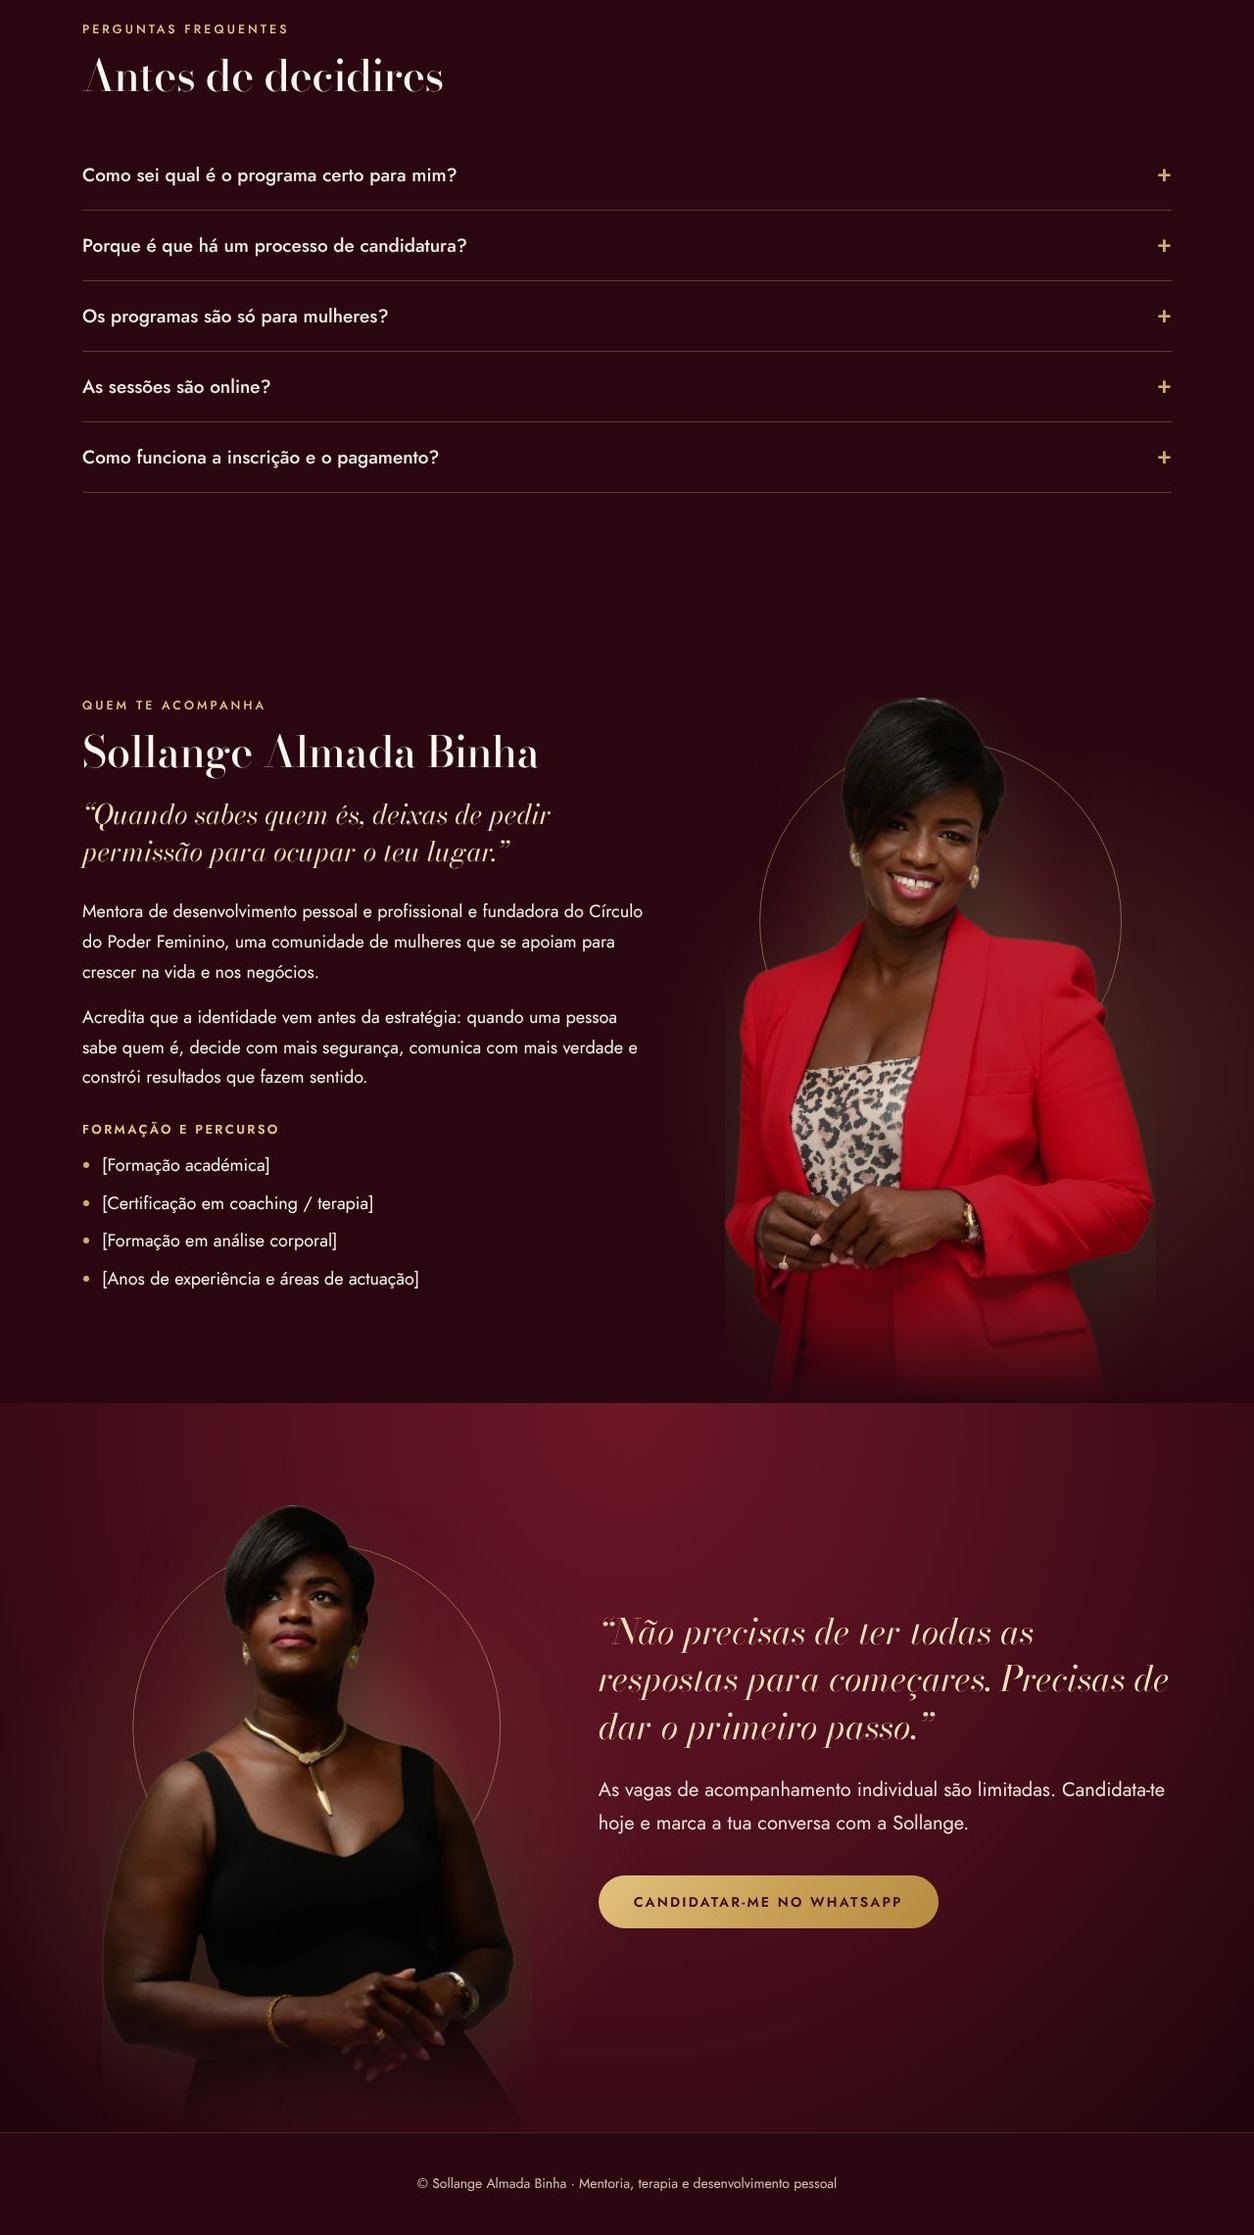
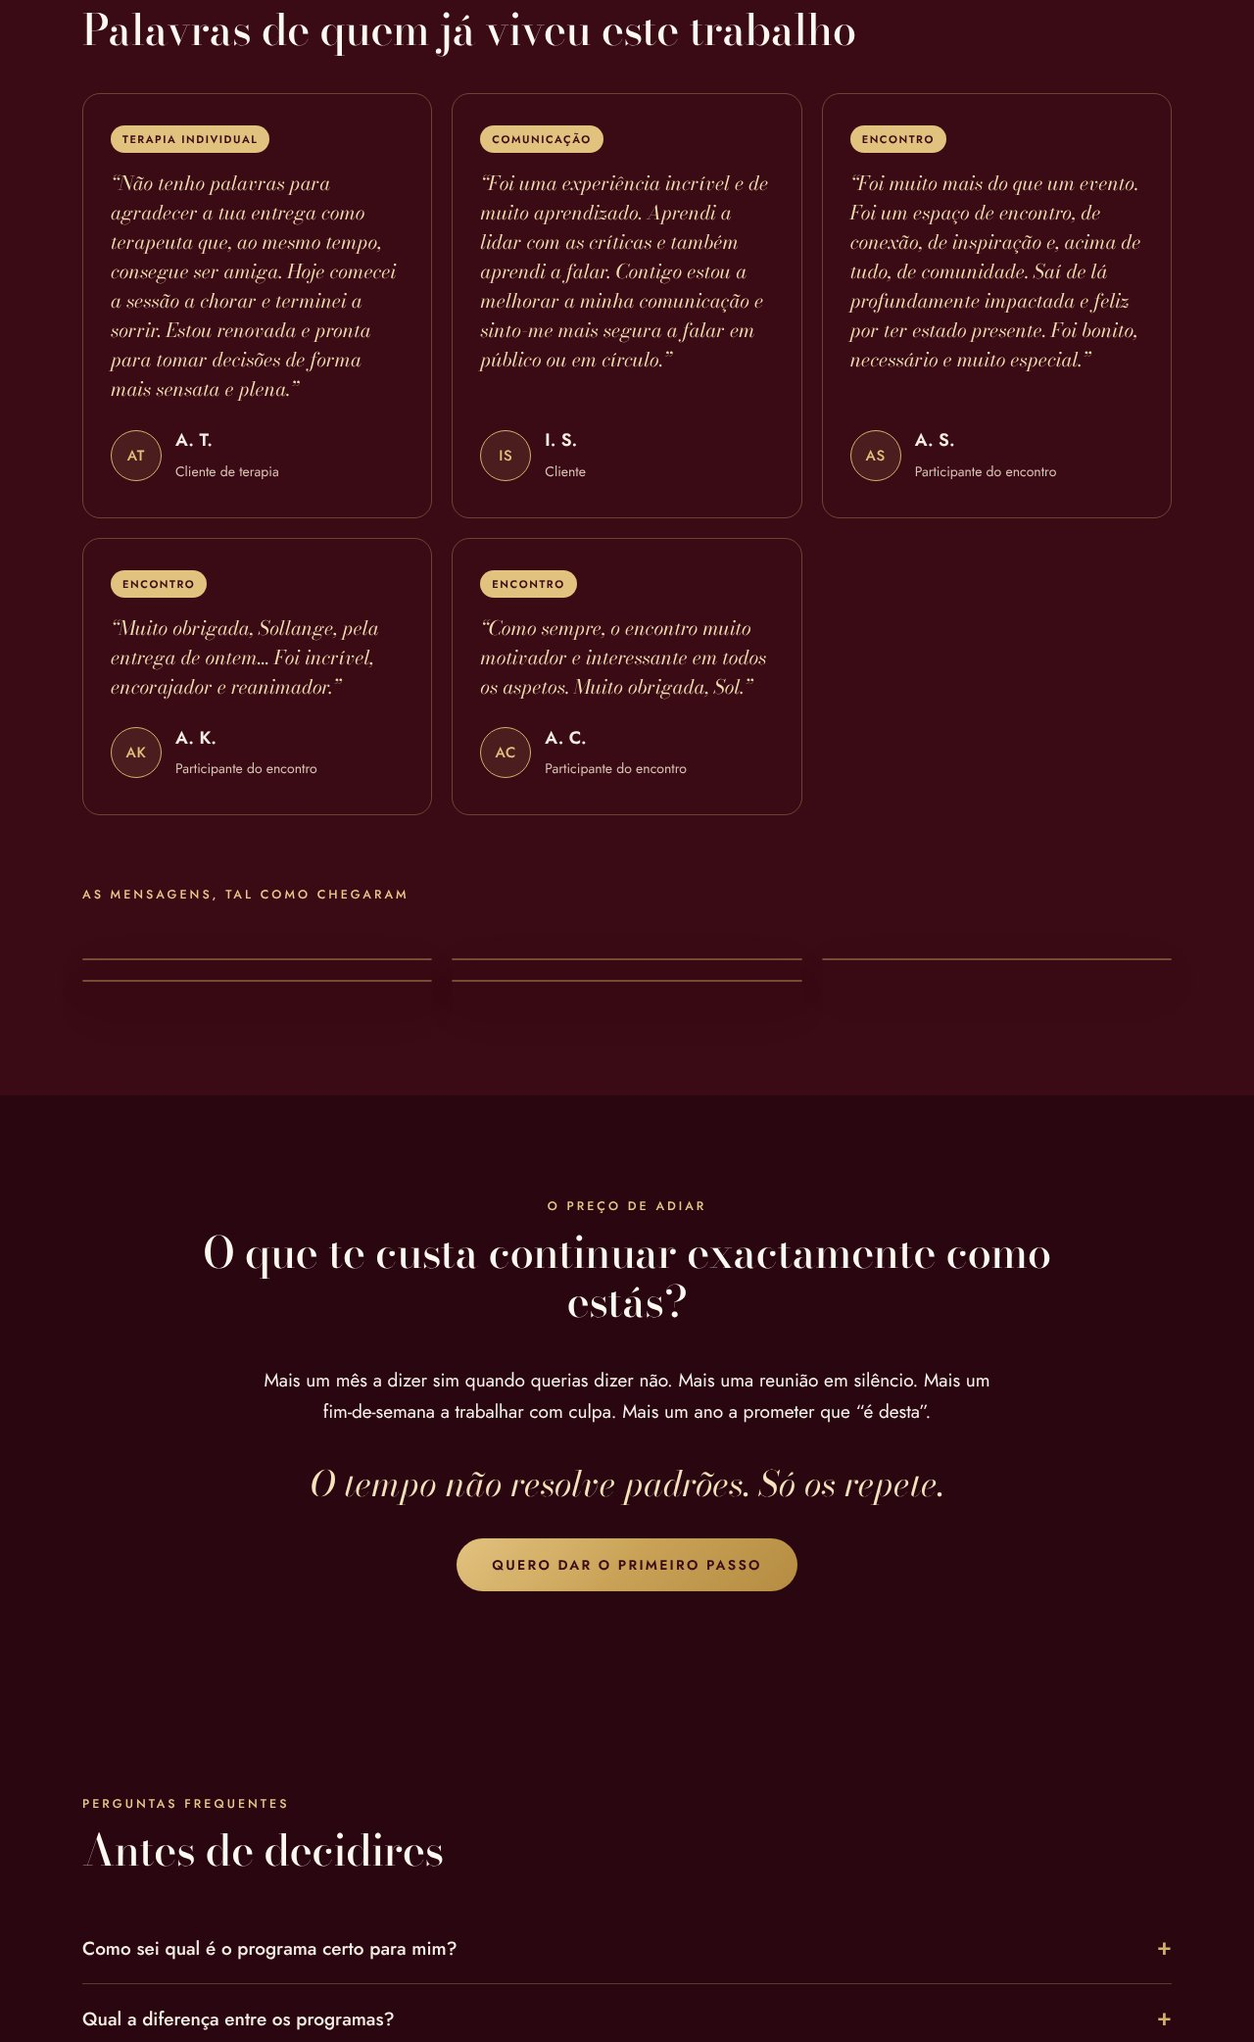
Reframe page as catalog of all programs with guide section
Claude-Session: https://claude.ai/code/session_01LHQJ2mQGDsvNSWxv53LoAn

diff --git a/sollange-programas.html b/sollange-programas.html
@@ -1,6 +1,6 @@
 <!DOCTYPE html>
 <html lang="pt-PT"><head><meta charset="utf-8"><meta name="viewport" content="width=device-width,initial-scale=1">
-<title>Sollange Almada Binha — Mentoria Individual</title>
+<title>Sollange Almada Binha — Programas</title>
 <link rel="preconnect" href="https://fonts.googleapis.com"><link rel="preconnect" href="https://fonts.gstatic.com" crossorigin>
 <link rel="stylesheet" href="https://fonts.googleapis.com/css2?family=Bodoni+Moda:ital,opsz,wght@0,6..96,400..600;1,6..96,400..500&family=Jost:wght@400;500;600&display=swap">
 <style>
@@ -176,22 +176,27 @@ ul{padding-left:20px} li{margin-bottom:8px} li::marker{color:#D4AF6A}
 .midia div{display:flex;justify-content:center;gap:40px;flex-wrap:wrap;font:italic 400 19px "Bodoni Moda",Georgia,serif;letter-spacing:0;color:#B79A86}
 .prints{columns:3 300px;column-gap:20px;margin-top:56px}
 .prints img{width:100%;display:block;margin:0 0 20px;break-inside:avoid;border-radius:16px;border:1px solid rgba(212,175,106,.4);box-shadow:0 20px 50px rgba(0,0,0,.35)}
+.guia-grid{display:grid;grid-template-columns:repeat(auto-fit,minmax(250px,1fr));gap:16px}
+.guia-item{display:flex;flex-direction:column;justify-content:space-between;gap:18px;min-height:150px;padding:24px;border:1px solid rgba(212,175,106,.45);border-radius:16px;background:rgba(212,175,106,.06);text-decoration:none;transition:background .2s,border-color .2s,transform .2s}
+.guia-item:hover{background:rgba(212,175,106,.14);border-color:#D4AF6A;transform:translateY(-2px)}
+.guia-item span{font:italic 400 20px/1.4 "Bodoni Moda",Georgia,serif;color:#FFF8F0}
+.guia-item b{font:500 12.5px Jost,Arial,sans-serif;letter-spacing:.16em;text-transform:uppercase;color:#E9C98A}
 footer{text-align:center;padding:40px 0;font-size:14px;color:#D9C3B4;border-top:1px solid rgba(212,175,106,.2)}
 @media (max-width:820px){.final-grid{grid-template-columns:1fr}.final-grid .cutout{order:2}.final-txt{text-align:center;padding-bottom:0}.final .quote,.final .lead{margin-left:auto;margin-right:auto}.hero{padding-top:56px}.hero-grid>div:first-child{padding-bottom:0}.cutout img{max-height:420px}.sobre .grid{grid-template-columns:1fr!important}.sobre .txt{padding-bottom:0}.faixa{font-size:13px}.dor-sec::before,.dor-sec::after{display:none}.hero-grid{grid-template-columns:1fr;text-align:center;gap:40px}.hero-grid .btns{justify-content:center}.hero-grid .foto{max-width:360px;margin:0 auto}.galeria{grid-template-columns:1fr 1fr}.galeria .foto:first-child{grid-column:span 2;aspect-ratio:4/3}.prog-body,.sobre .grid,.transf,.pq{grid-template-columns:1fr;gap:16px}.prog-body{gap:8px}.prog-head,.prog-body{padding-left:24px;padding-right:24px}.ribbon{position:static;display:inline-block;margin-bottom:12px}section{padding:76px 0}nav a.btn{display:none}}
 </style></head><body>
 
-<nav><div class="wrap"><b>SOLLANGE ALMADA BINHA</b><a class="btn" href="#candidatura">Candidatar-me</a></div></nav>
+<nav><div class="wrap"><b>SOLLANGE ALMADA BINHA</b><a class="btn" href="#guia">Descobre o teu programa</a></div></nav>
 
 <header class="hero"><div class="wrap hero-grid"><div>
-<p class="eyebrow">Mentoria individual · Acompanhamento 1:1</p>
+<p class="eyebrow">Mentoria · Terapia · Desenvolvimento pessoal</p>
 <h1>Conquistaste muito por fora. Agora é tempo de voltares a liderar por dentro.</h1>
-<p class="sub">Um acompanhamento individual e reservado para quem já provou o que vale e não aceita continuar a viver em piloto automático, a calar o que sente ou a adiar o que é seu.</p>
-<div class="btns"><a class="btn" href="#candidatura">Candidatar-me a uma conversa</a><a class="btn line" href="#programas">Ver programas</a></div>
-<p class="selo">Número limitado de clientes em acompanhamento em simultâneo</p>
+<p class="sub">Oito programas, um mesmo princípio: a identidade vem antes da estratégia. Do primeiro passo à mentoria de seis meses, há um caminho certo para o momento que estás a viver.</p>
+<div class="btns"><a class="btn" href="#guia">Descobre o teu programa</a><a class="btn line" href="#programas">Ver todos os programas</a></div>
+<p class="selo">Programas online · Sessões individuais com a Sollange · Para mulheres e homens</p>
 </div>
 <div class="cutout"><img src="fotos/recortes/sollange-vermelho-pose.webp" alt="Sollange Almada Binha" width="685" height="1099"></div>
 </div></header>
-<div class="faixas" aria-hidden="true"><div class="faixa b"><span>Identidade antes da estratégia ✦ Acompanhamento individual ✦ Online ✦ Vagas limitadas ✦ Identidade antes da estratégia ✦ Acompanhamento individual ✦ Online ✦ Vagas limitadas ✦ Identidade antes da estratégia ✦ Acompanhamento individual ✦ Online ✦ Vagas limitadas ✦ Identidade antes da estratégia ✦ Acompanhamento individual ✦ Online ✦ Vagas limitadas ✦ Identidade antes da estratégia ✦ Acompanhamento individual ✦ Online ✦ Vagas limitadas ✦ Identidade antes da estratégia ✦ Acompanhamento individual ✦ Online ✦ Vagas limitadas ✦ </span></div><div class="faixa a"><span>Mentoria Soberana ✦ Mentoria VOZ ✦ Reinventa-te ✦ Voz &amp; Essência ✦ Empreender com Equilíbrio ✦ Essência ✦ Direção ✦ Corpo Revela ✦ Mentoria Soberana ✦ Mentoria VOZ ✦ Reinventa-te ✦ Voz &amp; Essência ✦ Empreender com Equilíbrio ✦ Essência ✦ Direção ✦ Corpo Revela ✦ Mentoria Soberana ✦ Mentoria VOZ ✦ Reinventa-te ✦ Voz &amp; Essência ✦ Empreender com Equilíbrio ✦ Essência ✦ Direção ✦ Corpo Revela ✦ Mentoria Soberana ✦ Mentoria VOZ ✦ Reinventa-te ✦ Voz &amp; Essência ✦ Empreender com Equilíbrio ✦ Essência ✦ Direção ✦ Corpo Revela ✦ </span></div></div>
+<div class="faixas" aria-hidden="true"><div class="faixa b"><span>Identidade antes da estratégia ✦ Mentorias ✦ Terapia ✦ Coaching ✦ Programas online ✦ Identidade antes da estratégia ✦ Mentorias ✦ Terapia ✦ Coaching ✦ Programas online ✦ Identidade antes da estratégia ✦ Mentorias ✦ Terapia ✦ Coaching ✦ Programas online ✦ Identidade antes da estratégia ✦ Mentorias ✦ Terapia ✦ Coaching ✦ Programas online ✦ Identidade antes da estratégia ✦ Mentorias ✦ Terapia ✦ Coaching ✦ Programas online ✦ Identidade antes da estratégia ✦ Mentorias ✦ Terapia ✦ Coaching ✦ Programas online ✦ </span></div><div class="faixa a"><span>Mentoria Soberana ✦ Mentoria VOZ ✦ Reinventa-te ✦ Voz &amp; Essência ✦ Empreender com Equilíbrio ✦ Essência ✦ Direção ✦ Corpo Revela ✦ Mentoria Soberana ✦ Mentoria VOZ ✦ Reinventa-te ✦ Voz &amp; Essência ✦ Empreender com Equilíbrio ✦ Essência ✦ Direção ✦ Corpo Revela ✦ Mentoria Soberana ✦ Mentoria VOZ ✦ Reinventa-te ✦ Voz &amp; Essência ✦ Empreender com Equilíbrio ✦ Essência ✦ Direção ✦ Corpo Revela ✦ Mentoria Soberana ✦ Mentoria VOZ ✦ Reinventa-te ✦ Voz &amp; Essência ✦ Empreender com Equilíbrio ✦ Essência ✦ Direção ✦ Corpo Revela ✦ </span></div></div>
 
 <section class="dor-sec"><div class="wrap">
 <div class="center"><p class="eyebrow">Talvez te reconheças</p>
@@ -199,7 +204,7 @@ footer{text-align:center;padding:40px 0;font-size:14px;color:#D9C3B4;border-top:
 <div class="frases"><div class="frase"><i>“</i><p>“Construí resultados, mas sinto que me afastei de quem sou.”</p></div><div class="frase"><i>“</i><p>“Calo-me para evitar conflitos e carrego tudo o que ficou por dizer.”</p></div><div class="frase"><i>“</i><p>“Sinto culpa quando descanso, como se parar fosse falhar.”</p></div><div class="frase"><i>“</i><p>“Preparo tudo ao detalhe e, na hora de falar, a voz falha.”</p></div><div class="frase"><i>“</i><p>“Adio decisões importantes porque nenhuma parece a certa.”</p></div><div class="frase"><i>“</i><p>“Repito padrões que não consigo explicar.”</p></div></div>
 <div class="center"><p class="selo-pill">Então este trabalho <em>é para ti.</em></p>
 <p class="quote" style="margin-top:40px">Nada disto é um defeito teu. São padrões.<br>E padrões compreendem-se, trabalham-se e mudam.</p>
-<p style="margin-top:36px"><a class="btn" href="#candidatura">Quero voltar a mim</a></p></div>
+<p style="margin-top:36px"><a class="btn" href="#guia">Descobre o teu programa</a></p></div>
 </div></section>
 
 <section class="metodo center"><div class="wrap">
@@ -220,6 +225,13 @@ footer{text-align:center;padding:40px 0;font-size:14px;color:#D9C3B4;border-top:
 <div class="antes"><h3>Hoje</h3><ul><li>Dizes sim quando querias dizer não</li><li>Decides a pensar no que os outros vão achar</li><li>Ficas em silêncio quando tens algo a dizer</li><li>Trabalhas mais e sentes menos</li></ul></div>
 <div class="depois"><h3>Depois do processo</h3><ul><li>Estabeleces limites sem culpa</li><li>Decides com clareza e segurança</li><li>Comunicas com presença e verdade</li><li>Constróis resultados que fazem sentido para ti</li></ul></div>
 </div>
+</div></section>
+
+<section class="guia" id="guia"><div class="wrap">
+<p class="eyebrow">Qual é o programa certo para ti?</p>
+<h2 class="sec-h">Começa pelo que estás a sentir</h2>
+<div class="guia-grid"><a class="guia-item" href="#soberana"><span>Tens resultados, mas sentes que te afastaste de ti</span><b>Mentoria Soberana →</b></a><a class="guia-item" href="#voz"><span>Tens medo de falar e de te expor</span><b>Mentoria VOZ →</b></a><a class="guia-item" href="#reinventa-te"><span>Queres mudar de carreira ou recomeçar</span><b>Reinventa-te →</b></a><a class="guia-item" href="#voz-essencia"><span>Calas-te para não desagradar</span><b>Voz &amp; Essência →</b></a><a class="guia-item" href="#empreender"><span>O negócio está a consumir a tua vida</span><b>Empreender com Equilíbrio →</b></a><a class="guia-item" href="#essencia"><span>Queres um primeiro passo para te conheceres</span><b>Essência →</b></a><a class="guia-item" href="#direcao"><span>Adias decisões e objectivos</span><b>Direção →</b></a><a class="guia-item" href="#analise-corporal"><span>Repetes padrões que não consegues explicar</span><b>Corpo Revela →</b></a></div>
+<p class="nota" style="margin-top:28px">Ainda com dúvidas? <a href="#" data-wa="Ol%C3%A1%20Sollange%21%20Gostaria%20de%20saber%20qual%20%C3%A9%20o%20programa%20certo%20para%20mim." style="color:#E9C98A">Fala com a Sollange pelo WhatsApp</a>.</p>
 </div></section>
 
 <section class="progs" id="programas"><div class="wrap">
@@ -287,23 +299,23 @@ footer{text-align:center;padding:40px 0;font-size:14px;color:#D9C3B4;border-top:
 </div></section>
 
 <section class="paraquem"><div class="wrap">
-<p class="eyebrow">Antes de te candidatares</p>
+<p class="eyebrow">Antes de começares</p>
 <h2 class="sec-h">Este trabalho não é para toda a gente</h2>
 <div class="pq">
-<div class="sim"><h3>É para ti se</h3><ul><li>Estás disposta a olhar para dentro, mesmo quando é desconfortável</li><li>Queres mudança real, não apenas motivação</li><li>Valorizas um acompanhamento individual e próximo</li><li>Estás pronta para investir em ti com compromisso</li></ul></div>
-<div class="nao"><h3>Não é para ti se</h3><ul><li>Procuras uma fórmula rápida ou uma solução mágica</li><li>Esperas que alguém faça o trabalho por ti</li><li>Não estás disponível para comparecer às sessões</li><li>Queres apenas mais uma técnica de produtividade</li></ul></div>
+<div class="sim"><h3>É para ti se</h3><ul><li>Estás disposta a olhar para dentro, mesmo quando é desconfortável</li><li>Queres mudança real, não apenas motivação</li><li>Valorizas um acompanhamento próximo e humano</li><li>Estás pronta para investir em ti com compromisso</li></ul></div>
+<div class="nao"><h3>Não é para ti se</h3><ul><li>Procuras uma fórmula rápida ou uma solução mágica</li><li>Esperas que alguém faça o trabalho por ti</li><li>Não estás disponível para fazer os exercícios e comparecer às sessões</li><li>Queres apenas mais uma técnica de produtividade</li></ul></div>
 </div>
 </div></section>
 
-<section id="candidatura"><div class="wrap">
+<section id="como-funciona"><div class="wrap">
 <p class="eyebrow">Como funciona</p>
-<h2 class="sec-h">Um processo de admissão simples e cuidado</h2>
+<h2 class="sec-h">Três passos para começares</h2>
 <div class="passos">
-<div class="passo"><h4>Candidatura</h4><p>Envias uma mensagem a dizer qual o programa que te interessa e o momento que estás a viver.</p></div>
-<div class="passo"><h4>Conversa de diagnóstico</h4><p>Uma conversa individual com a Sollange para perceberem juntas se este é o momento e o programa certo.</p></div>
-<div class="passo"><h4>Proposta e início</h4><p>Se fizer sentido para as duas, recebes a proposta, garantes a tua vaga e marcamos a primeira sessão.</p></div>
+<div class="passo"><h4>Escolhe o teu programa</h4><p>Usa o guia acima ou lê a descrição de cada programa para encontrares o que responde ao teu momento.</p></div>
+<div class="passo"><h4>Garante a tua inscrição</h4><p>Clica em “Quero entrar” e concluis a inscrição na página segura da Hotmart, com opção de pagamento em prestações.</p></div>
+<div class="passo"><h4>Começa com a Sollange</h4><p>Recebes o acesso aos conteúdos e marcas as tuas sessões individuais online com a Sollange.</p></div>
 </div>
-<p style="margin-top:40px"><a class="btn" href="#" data-wa="Ol%C3%A1%20Sollange%21%20Gostaria%20de%20me%20candidatar%20a%20uma%20conversa%20de%20diagn%C3%B3stico.">Candidatar-me a uma conversa</a></p>
+<p style="margin-top:40px"><a class="btn" href="#programas">Ver os programas</a> <a class="btn line" href="#" data-wa="Ol%C3%A1%20Sollange%21%20Gostaria%20de%20saber%20qual%20%C3%A9%20o%20programa%20certo%20para%20mim." style="margin-left:8px">Tirar dúvidas no WhatsApp</a></p>
 </div></section>
 
 <section class="depo" id="depoimentos"><div class="wrap">
@@ -320,15 +332,16 @@ footer{text-align:center;padding:40px 0;font-size:14px;color:#D9C3B4;border-top:
 <h2 class="sec-h" style="margin-left:auto;margin-right:auto">O que te custa continuar exactamente como estás?</h2>
 <p class="t">Mais um mês a dizer sim quando querias dizer não. Mais uma reunião em silêncio. Mais um fim-de-semana a trabalhar com culpa. Mais um ano a prometer que “é desta”.</p>
 <p class="quote" style="margin:32px 0">O tempo não resolve padrões. Só os repete.</p>
-<a class="btn" href="#candidatura">Quero dar o primeiro passo</a>
+<a class="btn" href="#guia">Quero dar o primeiro passo</a>
 </div></section>
 
 <section class="faq"><div class="wrap">
 <p class="eyebrow">Perguntas frequentes</p>
 <h2 class="sec-h">Antes de decidires</h2>
-<details><summary>Como sei qual é o programa certo para mim?</summary><p>É exactamente para isso que serve a conversa de diagnóstico. Candidatas-te, falas com a Sollange e saem da conversa com clareza sobre o programa que faz sentido para o teu momento.</p></details>
-<details><summary>Porque é que há um processo de candidatura?</summary><p>Porque o acompanhamento é individual e a Sollange trabalha com um número limitado de clientes em simultâneo. A conversa garante que cada pessoa entra no programa certo, no momento certo.</p></details>
+<details><summary>Como sei qual é o programa certo para mim?</summary><p>Começa pelo guia “Qual é o programa certo para ti?”. Se continuares com dúvidas, fala com a Sollange pelo WhatsApp: numa conversa curta percebem juntas qual faz mais sentido para o teu momento.</p></details>
+<details><summary>Qual a diferença entre os programas?</summary><p>As mentorias de 6 meses são os processos mais profundos, com várias sessões individuais. Os programas de 3 meses focam um tema concreto: carreira, comunicação ou equilíbrio no negócio. Os primeiros passos combinam conteúdos ao teu ritmo com uma sessão individual, e são ideais para conheceres o trabalho da Sollange.</p></details>
 <details><summary>Os programas são só para mulheres?</summary><p>Não. Os programas acolhem mulheres e homens. A linguagem desta página é feminina, mas o trabalho é para qualquer pessoa que queira voltar a si.</p></details>
+<details><summary>Não tenho muito tempo. Consigo acompanhar?</summary><p>Sim. Os conteúdos em vídeo e os exercícios fazes ao teu ritmo, e as sessões individuais são marcadas de acordo com a tua disponibilidade.</p></details>
 <details><summary>As sessões são online?</summary><p>Sim. As sessões individuais decorrem online, para que possas participar onde quer que estejas.</p></details>
 <details><summary>Como funciona a inscrição e o pagamento?</summary><p>Ao clicares em “Quero entrar”, és encaminhada para a página segura da Hotmart, onde concluis a inscrição e vês as opções de pagamento disponíveis, incluindo o pagamento em prestações.</p></details>
 </div></section>
@@ -345,8 +358,8 @@ footer{text-align:center;padding:40px 0;font-size:14px;color:#D9C3B4;border-top:
 <section class="final"><div class="wrap final-grid">
 <div class="cutout"><img src="fotos/recortes/sollange-preto.webp" alt="Sollange Almada Binha" width="897" height="1307"></div>
 <div class="final-txt"><p class="quote">“Não precisas de ter todas as respostas para começares. Precisas de dar o primeiro passo.”</p>
-<p class="lead">As vagas de acompanhamento individual são limitadas. Candidata-te hoje e marca a tua conversa com a Sollange.</p>
-<a class="btn" href="#" data-wa="Ol%C3%A1%20Sollange%21%20Gostaria%20de%20me%20candidatar%20a%20uma%20conversa%20de%20diagn%C3%B3stico.">Candidatar-me no WhatsApp</a>
+<p class="lead">Escolhe o programa que responde ao teu momento ou fala com a Sollange para descobrires, juntas, por onde começar.</p>
+<a class="btn" href="#guia">Descobre o teu programa</a> <a class="btn line" href="#" data-wa="Ol%C3%A1%20Sollange%21%20Gostaria%20de%20conversar%20sobre%20os%20teus%20programas." style="margin-left:8px">Falar com a Sollange</a>
 </div>
 </div></section>
 
